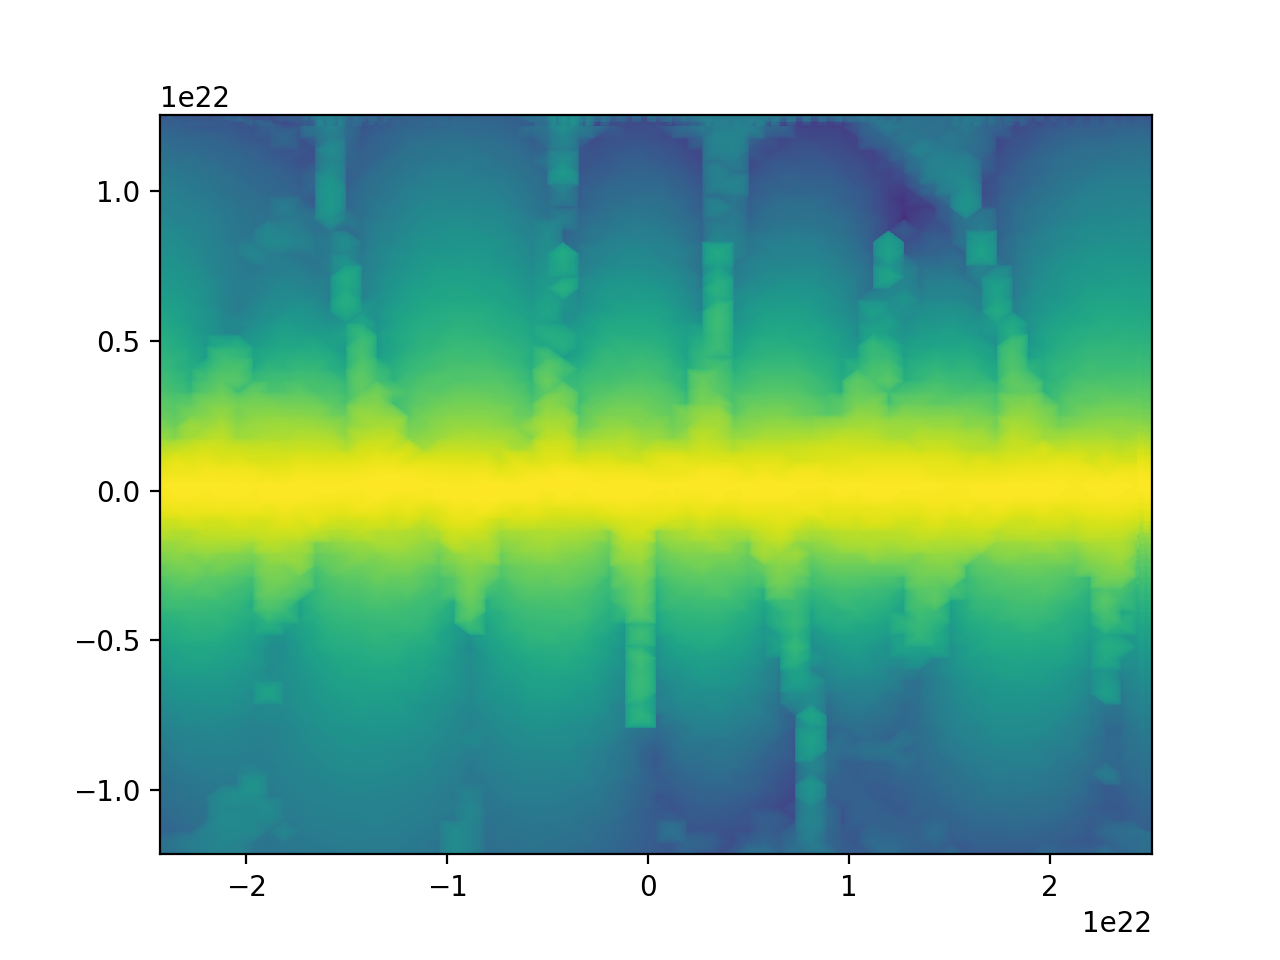
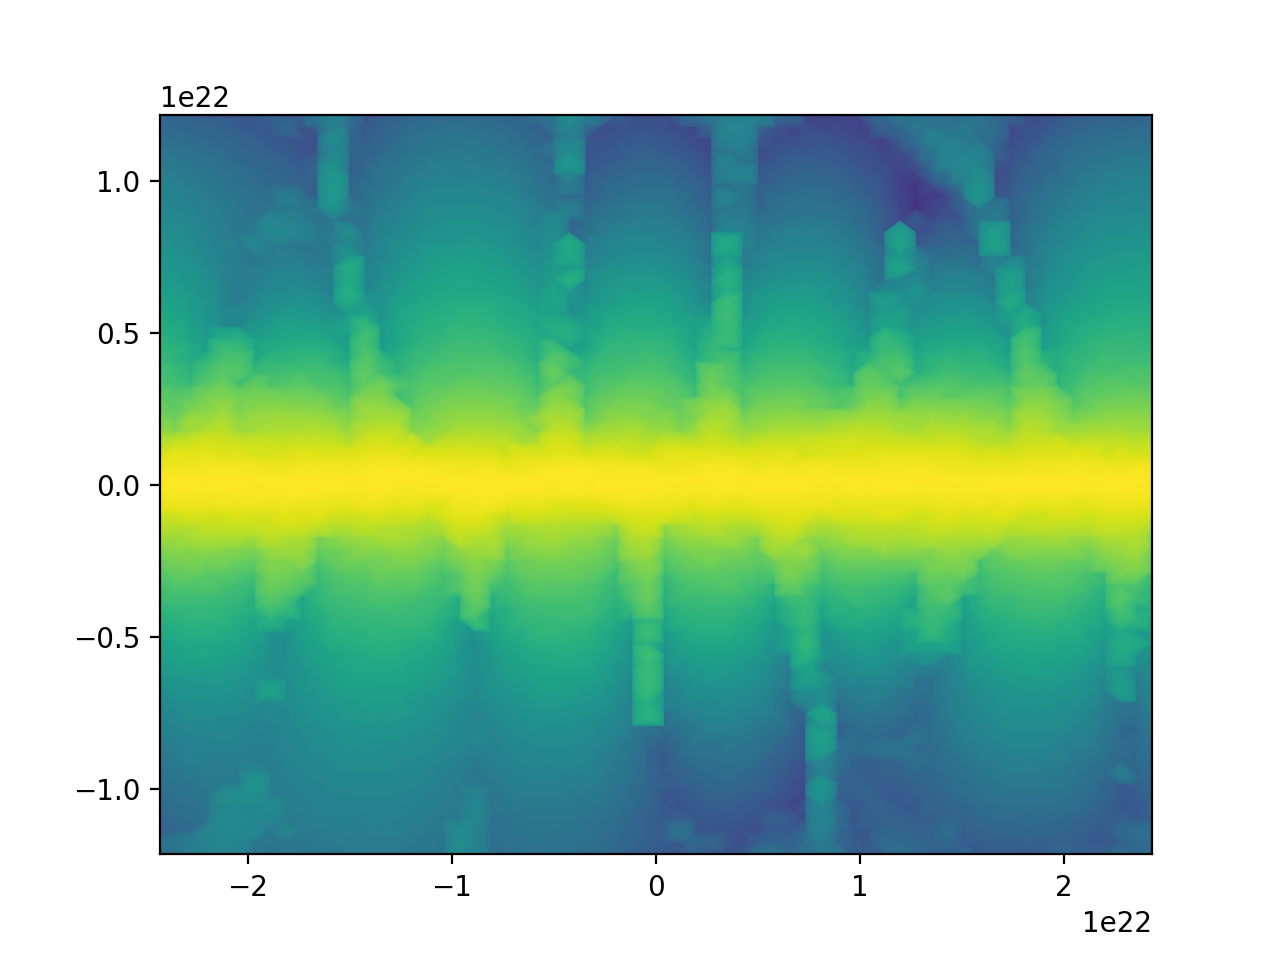
1D Z to 2D Cartesian WORKS

diff --git a/hdf5_parser.py b/hdf5_parser.py
@@ -71,12 +71,18 @@ def setup(fileName, format="Z"):
         
         return {"posXarray" : posXarray, 
                 "posYarray" : posYarray, 
-                "velXarray" : ZtoCartesian(fieldParse(file, 'velx')), 
-                "velYarray" : ZtoCartesian(fieldParse(file, 'vely')), 
-                "densityArray" : ZtoCartesian(fieldParse(file, 'dens')), 
-                "tempArray" : ZtoCartesian(fieldParse(file, 'temp')),
-                "magXarray" : ZtoCartesian(fieldParse(file, 'magx')),
-                "magYarray" : ZtoCartesian(fieldParse(file, 'magy'))}
+                "velXarray" : ZtoCartesian(file['velx']), 
+                "velYarray" : ZtoCartesian(file['vely']), 
+                "densityArray" : ZtoCartesian(file['dens']), 
+                "tempArray" : ZtoCartesian(file['temp']),
+                "magXarray" : ZtoCartesian(file['magx']),
+                "magYarray" : ZtoCartesian(file['magy'])}
+                # "velXarray" : ZtoCartesian(fieldParse(file, 'velx')), 
+                # "velYarray" : ZtoCartesian(fieldParse(file, 'vely')), 
+                # "densityArray" : ZtoCartesian(fieldParse(file, 'dens')), 
+                # "tempArray" : ZtoCartesian(fieldParse(file, 'temp')),
+                # "magXarray" : ZtoCartesian(fieldParse(file, 'magx')),
+                # "magYarray" : ZtoCartesian(fieldParse(file, 'magy'))}
     else:
         raise Exception("Invalid format " + format)
     #END OF METHOD
@@ -119,7 +125,8 @@ def seqGenerator (n):
 #returns a 2D cartesian array
 def ZtoCartesian(field):    
     #setup large sequence
-    xlen = int( np.sqrt(len(field)) ) #ASSUME SQUARE BOX
+    field = np.array(field)
+    xlen = int( np.sqrt(len(field))) #ASSUME SQUARE BOX
     A = np.asarray(seqGenerator(xlen))
     B = np.multiply(2, A)
     twoD = []
@@ -128,58 +135,83 @@ def ZtoCartesian(field):
         for a in A:
             tempArray.append(a+b)
         twoD.append(tempArray)
-    print(len(twoD))
+    print(np.shape(twoD))
     
     #assign Z indicies to coordinate array
+    xlen = xlen*8
     result = np.empty((xlen, xlen), dtype=float)
     for y in range(0, len(twoD)): #rows
         for x in range(0, len(twoD[y])): #cols
-            index = twoD[x][y]
-            result[y][x] = field[index]
+            index = twoD[y][x]
+            # result[y][x] = field[index][0][0][0]
+            #8x8 square
+            for y1 in range(0, 8):
+                for x1 in range(0, 8):
+                    result[(y*8)+y1][(x*8)+x1] = field[index][0][y1][x1]
+    print(np.shape(result))
     return np.asarray(result)
     
-
-    return result
-    
-#apply method to coordinates in the file.
-#accepts an hdf5 file
-#returns 2D arrays X, Y
 def cartesianCoordinates(file):
-    ZorderX = []
-    ZorderY = []
-    #iterate and separate XYZ coordinates
-    for xyz in file['coordinates']:
-        ZorderX.append(xyz[0])
-        ZorderY.append(xyz[1])
-    xlen = int( np.sqrt(len(ZorderX)) ) #ASSUME SQUARE BOX
-    
-    origX = ZtoCartesian(ZorderX)
-    origY = ZtoCartesian(ZorderY)
-    
-    # Create 8x8 full resolution afterwards
-    stepX = origX[0][1] - origX[0][0]
-    stepY = origY[1][0] - origY[0][0]
-    X = np.empty((xlen*8, xlen*8), dtype=float)
-    Y = np.empty((xlen*8, xlen*8), dtype=float)
-    
-    arrayin = origX
-    ylen = len(arrayin)
-    xlen = len(arrayin[0])
-    
-    for row in range(0, len(origX)):
-        for col in range(0, len(origX[row])):
-            tempXlin = np.linspace(origX[row][col], origX[row][col] + stepX, 8)
-            tempYlin = np.linspace(origY[row][col], origY[row][col] + stepY, 8)
-            tempMeshgrid = np.meshgrid(tempXlin, tempYlin)
-            #iterate row/col of small meshgrid
-            for subrow in range(0, len(tempMeshgrid[0])):
-                for subcol in range(0, len(tempMeshgrid[0][0])):
-                    #Transform origX coords into X coords (8x8 bigger)
-                    ROW = (row*8)+subrow
-                    COL = (col*8)+subcol
-                    X[ROW][COL] = tempMeshgrid[0][subrow][subcol]
-                    Y[ROW][COL] = tempMeshgrid[1][subrow][subcol]
-    X, Y = (np.asarray(X), np.asarray(Y))
-    return X, Y
+    #first, turn coordinates from shape (4096, 3) to 3 arrays (4096, 1, 8, 8)
+    coordField = file['coordinates']
+    stepX = coordField[1][0] - coordField[0][0]
+    stepY = coordField[2][1] - coordField[1][1] #bug was here
+
+    posX = [] #list
+    posY = [] #list
+    #borrow 8x8 from original coordinate setup
+    for coord in coordField:
+        tempXlin = np.linspace(coord[0], coord[0] + stepX, 8)
+        tempYlin = np.linspace(coord[1], coord[1] + stepY, 8)
+        tempMeshgrid = np.meshgrid(tempXlin, tempYlin)
+        posX.append([tempMeshgrid[0]]) #extra brackets for the 1 in (4096, 1, 8, 8)
+        posY.append([tempMeshgrid[1]])
+
+    posXresult = ZtoCartesian(posX)
+    posYresult = ZtoCartesian(posY)
+    return (posXresult, posYresult)
+
+# =============================================================================
+# #apply method to coordinates in the file.
+# #accepts an hdf5 file
+# #returns 2D arrays X, Y
+# def cartesianCoordinates(file):
+#     ZorderX = []
+#     ZorderY = []
+#     #iterate and separate XYZ coordinates
+#     for xyz in file['coordinates']:
+#         ZorderX.append(xyz[0])
+#         ZorderY.append(xyz[1])
+#     xlen = int( np.sqrt(len(ZorderX)) ) #ASSUME SQUARE BOX
+#     
+#     origX = ZtoCartesian(ZorderX)
+#     origY = ZtoCartesian(ZorderY)
+#     
+#     # Create 8x8 full resolution afterwards
+#     stepX = origX[0][1] - origX[0][0]
+#     stepY = origY[1][0] - origY[0][0]
+#     X = np.empty((xlen*8, xlen*8), dtype=float)
+#     Y = np.empty((xlen*8, xlen*8), dtype=float)
+#     
+#     arrayin = origX
+#     ylen = len(arrayin)
+#     xlen = len(arrayin[0])
+#     
+#     for row in range(0, len(origX)):
+#         for col in range(0, len(origX[row])):
+#             tempXlin = np.linspace(origX[row][col], origX[row][col] + stepX, 8)
+#             tempYlin = np.linspace(origY[row][col], origY[row][col] + stepY, 8)
+#             tempMeshgrid = np.meshgrid(tempXlin, tempYlin)
+#             #iterate row/col of small meshgrid
+#             for subrow in range(0, len(tempMeshgrid[0])):
+#                 for subcol in range(0, len(tempMeshgrid[0][0])):
+#                     #Transform origX coords into X coords (8x8 bigger)
+#                     ROW = (row*8)+subrow
+#                     COL = (col*8)+subcol
+#                     X[ROW][COL] = tempMeshgrid[0][subrow][subcol]
+#                     Y[ROW][COL] = tempMeshgrid[1][subrow][subcol]
+#     X, Y = (np.asarray(X), np.asarray(Y))
+#     return X, Y
+# =============================================================================
 
 

diff --git a/CoordinateReshape_Zto2D.py b/CoordinateReshape_Zto2D.py
@@ -166,11 +166,11 @@ plt.plot(X, Y)
 X, Y = hdf5_parser.cartesianCoordinates(h5py.File(filename, 'r'))
 plt.clf()
 # plt.plot(X, Y)
-# colormap = np.linspace(1, len(X)*512, len(X)*512)
+colormap = np.linspace(1, len(X)*512, len(X)*512)
 #repeat 2D 512 times
-colormap = np.meshgrid(np.linspace(1, len(X), len(X)), np.empty(len(X), dtype=float))[0]
+# colormap = np.meshgrid(np.linspace(1, len(X), len(X)), np.empty(len(X), dtype=float))[0]
 plt.scatter(X, Y, s=1, c=colormap)
-plt.savefig(pwd + "/Plots/CoordGradientX.png")
+plt.savefig(pwd + "/Plots/Zclean2.png")
 
 #%%
 newOut = hdf5_parser.setup(filename, format = "cartesian")
@@ -181,6 +181,6 @@ z = newOut['densityArray'].flatten()
 # plt.tricontourf(x, y, z, levels=100, locator=ticker.LogLocator())
 
 lev = np.logspace(np.log10(z.min()), np.log10(z.max()), num=1000)
-plt.clf
+plt.clf()
 plt.tricontourf(x, y, z, locator=ticker.LogLocator(), levels = lev) #good for irregular Z values
-plt.savefig(pwd + "/Plots/Zmess3.png")
+plt.savefig(pwd + "/Plots/ZcleanB1.png")
